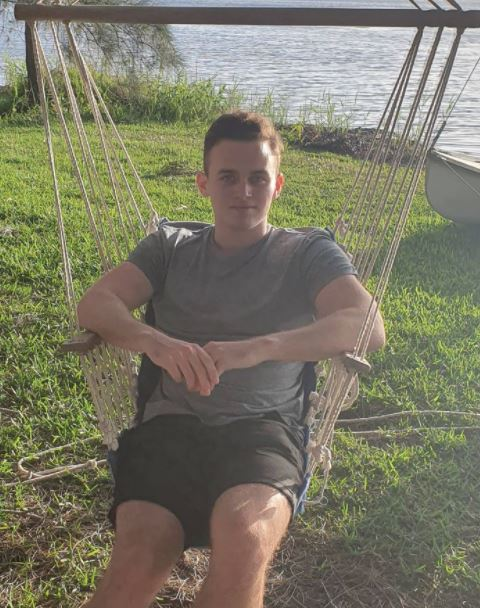
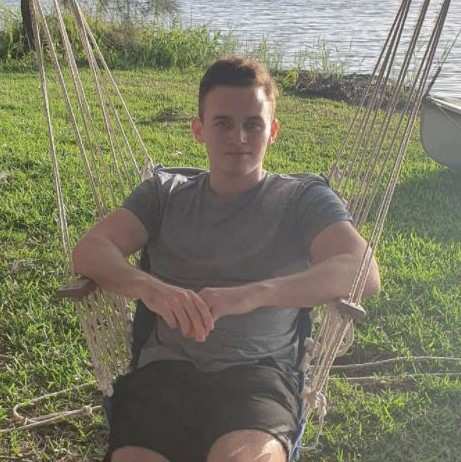
updating Emmets profile

diff --git a/index.html b/index.html
@@ -71,12 +71,21 @@
       <div class="about-text-emmet">
 
         <h3>Emmet</h3>
-        <p class="lead">Lorem ipsum dolor sit amet, consectetur adipisicing elit, sed do eiusmod tempor incididunt ut labore et dolore magna aliqua. Ut enim ad minim veniam, quis nostrud exercitation ullamco laboris nisi ut aliquip ex ea commodo consequat. Duis aute irure dolor in reprehenderit in voluptate velit esse cillum dolore eu fugiat nulla pariatur. Excepteur sint occaecat cupidatat non proident, sunt in culpa qui officia deserunt mollit anim id est laborum.</p>
-        <p class="lead">Lorem ipsum dolor sit amet, consectetur adipisicing elit, sed do eiusmod tempor incididunt ut labore et dolore magna aliqua. Ut enim ad minim veniam, quis nostrud exercitation ullamco laboris nisi ut aliquip ex ea commodo consequat. Duis aute irure dolor in reprehenderit in voluptate velit esse cillum dolore eu fugiat nulla pariatur. Excepteur sint occaecat cupidatat non proident, sunt in culpa qui officia deserunt mollit anim id est laborum.</p>
-        <p class="lead">Lorem ipsum dolor sit amet, consectetur adipisicing elit, sed do eiusmod tempor incididunt ut labore et dolore magna aliqua. Ut enim ad minim veniam, quis nostrud exercitation ullamco laboris nisi ut aliquip ex ea commodo consequat. Duis aute irure dolor in reprehenderit in voluptate velit esse cillum dolore eu fugiat nulla pariatur. Excepteur sint occaecat cupidatat non proident, sunt in culpa qui officia deserunt mollit anim id est laborum.</p>
+        <p class="lead">Born in 1990, I am a duel national with a culturally diverse and artistic background, raised in both Ireland and New Zealand.</p>
+        <p class="lead">I have lived worked and studied in a verity of different locations and cities from Cork Ireland to Sydney Australia. I finished my high school education in West Cork, Ireland in 2008 where I embarked on a creative path exploring audio production through initially S.I.T Invercargill, New Zealand and then SAE London, England. My interest in information technology stems from two elements, firstly my comfort level with using technology and secondly my discomfort with a lack of deep understanding and implementation of this technology. </p>
+        <p class="lead">I enjoy spending my free time, playing Spanish guitar, perusing art galleries, engaging in team sports football (soccer) and rowing.</p>
+        <h4>Personality Tests</h4>
+        <p class="lead">
+          <b>16 Personalities:</b> The Commander ENTJ-A
+        </br><b>Colour Works Style Discovery:</b> Reformer
+      </br><b>Mumford Honey Learning Style:</b> Reflector/Pragmatist </b> </br></br>
+      Identifying my personality type and learning style,helped me to gauge where I should andshould not be placing my energy to better succeedin Tess our assessment two group. TheMyer-Briggs ‘16Personalities’ test results helpedme distinguish my biggest strengths ofbeing self-confident, strong-willed, energetic, efficient,strategic thinker as well as myweaknesses being intolerant, impatient, stubborn anddominant. My colour result waspurple “reformer type’ which identified that I wouldhave difficulty working with green‘helper types’ luckily no one in our group had thispersonality type. My learning style results6
+      Reflector/Pragmatist showed that I would need to observe and reflect to be able to put thelearning obtained into practice.
+
+      </p>
       </div>
       <div class="about-emmet">
-        <img src="img/emmet.jpg" alt="Picture of Taylor">
+        <img src="img/emmet.jpg" alt="Picture of Emmet">
       </div>
     </div>
   </div>
